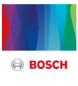
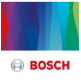
add images

diff --git a/generic.html b/generic.html
@@ -52,7 +52,7 @@
 							<div class="inner">
 
 								<header>
-									<div><img src="images/bosch_.png" alt="" /></div><p>2023-Present</p><div class="content"></div>
+									<div><img src="images/bosch_.png" alt="" /><p>2023-Present</p></div>
 									<h4>AI Researcher & Solution Developer</h4>
 									<p>Bosch Car Multimédia | Braga, PT</p>
 								</header>
@@ -60,6 +60,7 @@
 								
 								
 								<header>
+									<div><img src="images/Ut.png" alt="" /><p>2023-Present</p></div>
 									<h4>Researcher</h4>
 									<p>Section of Cognition Data & Education | BMS Faculty UT | Enschede, NL</p>
 								</header>
@@ -75,6 +76,16 @@
 									<p>Clinical Neurophysiology Group (CNPH) |TechMed Center UT | Enschede, NL</p>
 								</header>
 
+								<header>
+									<div><img src="images/inesc.png" alt="" /><p>2023-Present</p></div>
+									<h4>Summer Intern</h4>
+									<p>Visual Computing and Machine Intelligence Group | INESC Technology and Science | Porto, PT</p>
+								</header>
+
+								<header>
+									<h4>Researcher Intern</h4>
+									<p> Biomedical Imaging Lab from C-BER | INESC Technology and Science | Porto, PT</p>
+								</header>
 								<!-- 
 								<h2>AI Researcher & Solution Developer</h2>
 								<h6>Bosch Car Multimédia | Braga, PT</h6>
